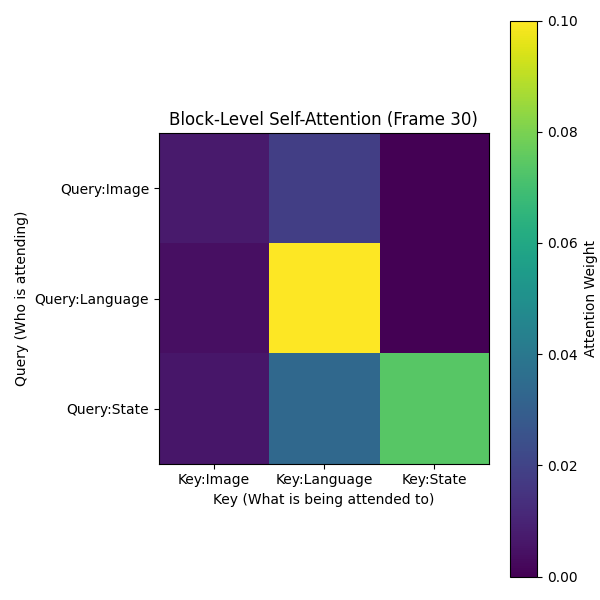
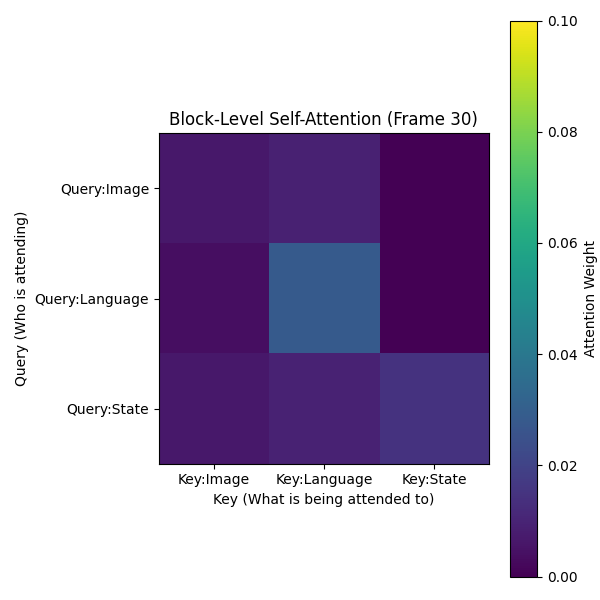
update attention tool, also study for another approach besides attention to explain the model behaviour

Changed region(s): [[0.45, 0.21, 0.84, 0.78]]

diff --git a/src/lerobot/scripts/record_attention_plot_cross_stanley_analyze.py b/src/lerobot/scripts/record_attention_plot_cross_stanley_analyze.py
@@ -1,0 +1,314 @@
+'''
+Usage:
+python src/lerobot/scripts/record_attention_plot_cross_stanley_analyze.py     --repo_id "ethanCSL/svla_koch_sorting_n_stacking"     --ckpt "ethanCSL/svla_koch_sorting_n_stacking"     --episode 0     --prompt "Put the red cube in the right box,the green cube in the left box." --rename_map='{                                                      
+    "observation.images.front": "observation.images.camera1",
+    "observation.images.top":   "observation.images.camera2"
+}' 
+'''
+
+'''
+Cross attention block in action expert 
+
+'''
+
+import os
+import math
+import json
+import torch
+import cv2
+import numpy as np
+import argparse
+from torch import nn
+
+# LeRobot tools
+from lerobot.utils.utils import get_safe_torch_device
+from lerobot.configs.policies import PreTrainedConfig
+from lerobot.policies.factory import make_policy
+from lerobot.datasets.lerobot_dataset import LeRobotDataset
+from lerobot.policies.smolvla.processor_smolvla import make_smolvla_pre_post_processors
+from lerobot.utils.constants import OBS_LANGUAGE_TOKENS
+
+# plot tool
+import matplotlib.pyplot as plt
+
+def extract_cross_attention_maps(attn_matrix, num_img_tokens):
+    mean_action_attn = attn_matrix.mean(dim=0)
+
+    # print("Cross K length:", mean_action_attn.shape[0])
+
+    K = mean_action_attn.shape[0]
+    if 2 * num_img_tokens > K:
+        print(f"[錯誤] 2*num_img_tokens={2*num_img_tokens} > K={K}，切分一定錯。")
+        return None, None
+
+    heat_cam1_1d = mean_action_attn[:num_img_tokens]
+    heat_cam2_1d = mean_action_attn[num_img_tokens:2*num_img_tokens]
+
+    return heat_cam1_1d, heat_cam2_1d
+
+def process_heatmap(heat_1d, original_size=(480, 640)):
+
+    heat_1d = heat_1d.float().detach().cpu()
+
+    num_tokens = heat_1d.numel()
+
+    # 自動推測 grid 為正方形（最安全）
+    side = int(math.sqrt(num_tokens))
+
+    if side * side != num_tokens:
+        # 如果不是完美平方，找最近可整除排列
+        for h in range(side, 0, -1):
+            if num_tokens % h == 0:
+                w = num_tokens // h
+                heat_2d = heat_1d.reshape(h, w).numpy()
+                break
+    else:
+        heat_2d = heat_1d.reshape(side, side).numpy()
+
+    heat_resized = cv2.resize(
+        heat_2d,
+        (original_size[1], original_size[0]),
+        interpolation=cv2.INTER_LINEAR,
+    )
+
+    v_min, v_max = np.percentile(heat_resized, [0, 98])
+    heat_norm = np.clip((heat_resized - v_min) / (v_max - v_min + 1e-6), 0, 1)
+
+    return heat_norm
+
+def analyze_attention_refined(attn_matrix, num_img_tokens, real_text_len):
+    mean_attn = attn_matrix.mean(dim=0).float().cpu()
+    total_k = mean_attn.shape[0]
+    
+    # 1. 影像區 (前 128)
+    vision_attn = mean_attn[:2*num_img_tokens].sum().item()
+    
+    # 2. 真實文字區 (128 開始，往後數實質長度)
+    text_start = 2 * num_img_tokens
+    text_end = text_start + real_text_len
+    text_attn = mean_attn[text_start:text_end].sum().item()
+    
+    # 3. 機器人狀態區 (末端 30 token，根據你的圖表 K=305-275)
+    state_attn = mean_attn[275:].sum().item()
+    
+    # 4. 其他 (Padding)
+    others_attn = mean_attn[text_end:275].sum().item()
+    
+    total = vision_attn + text_attn + state_attn + others_attn + 1e-8
+    
+    return {
+        "Vision": vision_attn / total,
+        "Text": text_attn / total,
+        "State": state_attn / total,
+        "Padding": others_attn / total
+    }
+
+# ==========================================
+# 2. 主執行邏輯
+# ==========================================
+
+def main():
+    parser = argparse.ArgumentParser()
+    parser.add_argument("--repo_id", type=str, required=True)
+    parser.add_argument("--ckpt", type=str, required=True)
+    parser.add_argument("--episode", type=int, default=0)
+    parser.add_argument("--prompt", type=str, default="Put the green cube in the box.")
+    parser.add_argument("--output_path", type=str, default="attention_video_cross_stanley.mp4")
+    parser.add_argument("--rename_map", type=str, default='{"observation.images.front": "observation.images.camera1", "observation.images.top": "observation.images.camera2"}')
+    parser.add_argument("--video_backend", type=str, default="pyav")
+    args = parser.parse_args()
+
+    device = get_safe_torch_device("cuda")
+    rename_map = json.loads(args.rename_map)
+
+    dataset = LeRobotDataset(args.repo_id, batch_encoding_size=1,video_backend=args.video_backend)
+    policy_cfg = PreTrainedConfig.from_pretrained(args.ckpt)
+    policy = make_policy(policy_cfg, ds_meta=dataset.meta, rename_map=rename_map)
+    policy.to(device)
+    policy.eval()
+
+    # cross attention
+    policy.model.vlm_with_expert.attention_mode = "cross_attn"
+
+    preprocessor, _ = make_smolvla_pre_post_processors(policy.config, dataset.meta.stats)
+
+    if hasattr(dataset.meta, 'episode_data_index'):
+        start_idx = dataset.meta.episode_data_index['from'][args.episode]
+        end_idx = dataset.meta.episode_data_index['to'][args.episode]
+    else:
+        start_idx = sum(dataset.meta.episodes[i]['length'] for i in range(args.episode))
+        end_idx = start_idx + dataset.meta.episodes[args.episode]['length']
+
+    print(f"[開始] 處理第 {args.episode} 集，影片將儲存至: {args.output_path}")
+
+    block_dir = "cross_attn_block_every30"
+    os.makedirs(block_dir, exist_ok=True)
+
+    video_writer = None
+
+    for i in range(start_idx, end_idx):
+        if i % 4 != 0:
+            continue
+
+        item = dataset[i]
+        observation_batch = {}
+        for k, v in item.items():
+            if k in rename_map:
+                observation_batch[rename_map[k]] = v.unsqueeze(0).to(device)
+            elif k.startswith("observation."):
+                observation_batch[k] = v.unsqueeze(0).to(device)
+        
+        ref_cam = observation_batch["observation.images.camera1"]
+        for tk in ["observation.images.camera3", "observation.images.empty_camera_0"]:
+            if tk not in observation_batch:
+                observation_batch[tk] = torch.zeros_like(ref_cam)
+
+        observation_batch["task"] = args.prompt
+        batch_pp = preprocessor(observation_batch)
+        #print(batch_pp.keys())
+        
+        # 提取文字 Token 的實際長度 (排除 Padding)
+        # SmolVLA 的 input_ids 通常在 batch_pp 中
+        text_token_len = 0
+        mask_key = "observation.language.attention_mask"
+        token_key = "observation.language.tokens"
+
+        if mask_key in batch_pp:
+            # 計算非 padding 的 token 數量
+            text_token_len = batch_pp[mask_key].sum().item()
+        elif token_key in batch_pp:
+            text_token_len = batch_pp[token_key].shape[1]
+
+
+        # ---- Enable cross-attention recording ----
+        model = policy.model.vlm_with_expert
+        model.record_attn = True
+        model.attn_records = {}
+
+        with torch.no_grad():
+            policy.predict_action_chunk(batch_pp)
+
+        if hasattr(policy.model.vlm_with_expert, "last_attn_weights"):
+            attn = policy.model.vlm_with_expert.last_attn_weights
+            # print("last_attn_weights shape:", attn.shape)
+        
+        images_list, img_masks = policy.prepare_images(batch_pp)   # images_list: list[tensor]，通常每個 camera 一個
+        img_emb0 = policy.model.vlm_with_expert.embed_image(images_list[0])
+        #print("DEBUG embed_image(images_list[0]) shape:", img_emb0.shape)  # [B, num_img_tokens, hidden]
+
+        # 將 num_img_tokens 存起來給 extract_cross_attention_maps 用
+        policy.model.vlm_with_expert._debug_num_img_tokens = int(img_emb0.shape[1])
+
+        model = policy.model.vlm_with_expert
+
+        layer_ids = [k[0] for k in model.attn_records.keys() if k[1] == "expert_cross"]
+        if len(layer_ids) == 0:
+            continue
+
+        final_layer = max(layer_ids)
+        attn_list = model.attn_records.get((final_layer, "expert_cross"), [])
+        if len(attn_list) == 0:
+            continue
+
+        attn = attn_list[-1]
+
+        attn_matrix = attn.mean(dim=1)[0]   # [Q, K]
+        num_img_tokens = policy.model.vlm_with_expert._debug_num_img_tokens
+
+        # 插入在 attn_matrix 定義之後
+        if i == start_idx:
+            print("\n" + "="*50)
+            print("序列順序診斷 (Sequence Order Diagnosis)")
+            
+            # 1. 取得基本維度
+            total_k_tokens = attn_matrix.shape[1]
+            mean_attn_values = attn_matrix.mean(dim=0).cpu().numpy()
+            
+            # 2. 獲取文字遮罩的實際長度
+            mask_key = "observation.language.attention_mask"
+            real_text_len = 0
+            if mask_key in batch_pp:
+                real_text_len = int(batch_pp[mask_key].sum().item())
+                total_text_config_len = batch_pp[mask_key].shape[1]
+            
+            print(f"總 Token 數 (K): {total_k_tokens}")
+            print(f"預期影像 Token 數 (2機): {2 * num_img_tokens}")
+            print(f"文字有效長度 (Mask Sum): {real_text_len}")
+            
+            # 3. 尋找能量峰值位置 (通常影像區域能量較集中)
+            # 我們切分前、中、後段來觀察平均權重
+            head_segment = mean_attn_values[:2*num_img_tokens].mean()
+            tail_segment = mean_attn_values[2*num_img_tokens:].mean()
+            
+            print(f"前段 (影像區間) 平均權重: {head_segment:.6f}")
+            print(f"後段 (文字/其他區間) 平均權重: {tail_segment:.6f}")
+            
+            # 4. 判斷邏輯
+            if head_segment > tail_segment:
+                print(">>> 診斷結果: 權重集中在前段，符合 [Vision, Text] 順序。")
+            else:
+                print(">>> 診斷結果: 權重集中在後段，可能順序為 [Text, Vision] 或文字佔主導。")
+            
+            # 5. 輸出視覺化分佈圖 (Debug 用)
+            plt.figure(figsize=(10, 4))
+            plt.plot(mean_attn_values)
+            plt.axvline(x=2*num_img_tokens, color='r', linestyle='--', label='Image-Text Split')
+            plt.title("Attention Weight Distribution across Tokens")
+            plt.xlabel("Token Index")
+            plt.ylabel("Mean Attention Value")
+            plt.legend()
+            plt.savefig("token_distribution_debug.png")
+            print("已儲存 Token 分佈圖至: token_distribution_debug.png")
+            print("="*50 + "\n")
+
+
+        num_img_tokens = policy.model.vlm_with_expert._debug_num_img_tokens
+        p_cam1, p_cam2, p_text, p_others = analyze_attention_refined(
+            attn_matrix, 
+            num_img_tokens, 
+            real_text_len=int(text_token_len)  # 將這裡的 text_token_len= 改為 real_text_len=
+        )
+
+        # 印出結果診斷
+        print(f"Frame {i}: Cam1:{p_cam1:.1%} | Cam2:{p_cam2:.1%} | Text:{p_text:.1%} | Others:{p_others:.1%}")
+       
+        h1_1d, h2_1d = extract_cross_attention_maps(
+            attn_matrix,
+            num_img_tokens
+        )
+
+        if h1_1d is not None:
+            img_front = item["observation.images.front"].permute(1, 2, 0).numpy()
+            img_top = item["observation.images.top"].permute(1, 2, 0).numpy()
+            
+            if img_front.max() <= 1.0: img_front = (img_front * 255).astype(np.uint8)
+            if img_top.max() <= 1.0: img_top = (img_top * 255).astype(np.uint8)
+
+            mask_f = process_heatmap(h1_1d)
+            mask_t = process_heatmap(h2_1d)
+
+            heatmap_f = cv2.applyColorMap(np.uint8(255 * mask_f), cv2.COLORMAP_JET)
+            heatmap_t = cv2.applyColorMap(np.uint8(255 * mask_t), cv2.COLORMAP_JET)
+
+            vis_f = cv2.addWeighted(cv2.cvtColor(img_front, cv2.COLOR_RGB2BGR), 0.6, heatmap_f, 0.4, 0)
+            vis_t = cv2.addWeighted(cv2.cvtColor(img_top, cv2.COLOR_RGB2BGR), 0.6, heatmap_t, 0.4, 0)
+
+            combined = np.hstack((vis_f, vis_t))
+
+            # 初始化 VideoWriter
+            if video_writer is None:
+                height, width, _ = combined.shape
+                fourcc = cv2.VideoWriter_fourcc(*'mp4v')
+                video_writer = cv2.VideoWriter(args.output_path, fourcc, 15.0, (width, height))
+
+            video_writer.write(combined)
+            
+            if i % 50 == 0:
+                print(f"已處理幀數: {i - start_idx}")
+
+    if video_writer:
+        video_writer.release()
+    print("[結束] 影片製作完成。")
+
+if __name__ == "__main__":
+    main()

diff --git a/src/lerobot/scripts/smolvlm_unit_test/smolvlm_unit_test_single_image.py b/src/lerobot/scripts/smolvlm_unit_test/smolvlm_unit_test_single_image.py
@@ -7,7 +7,7 @@ import numpy as np
 import os 
 
 # Configuration
-IMAGE_PATH = "single_cam_sorting_top_block_only.png"
+IMAGE_PATH = "single_cam_sorting_top_crop_grasp.png"
 
 MODEL_ID = "HuggingFaceTB/SmolVLM2-500M-Video-Instruct"
 DEVICE = "cuda" if torch.cuda.is_available() else "cpu"
